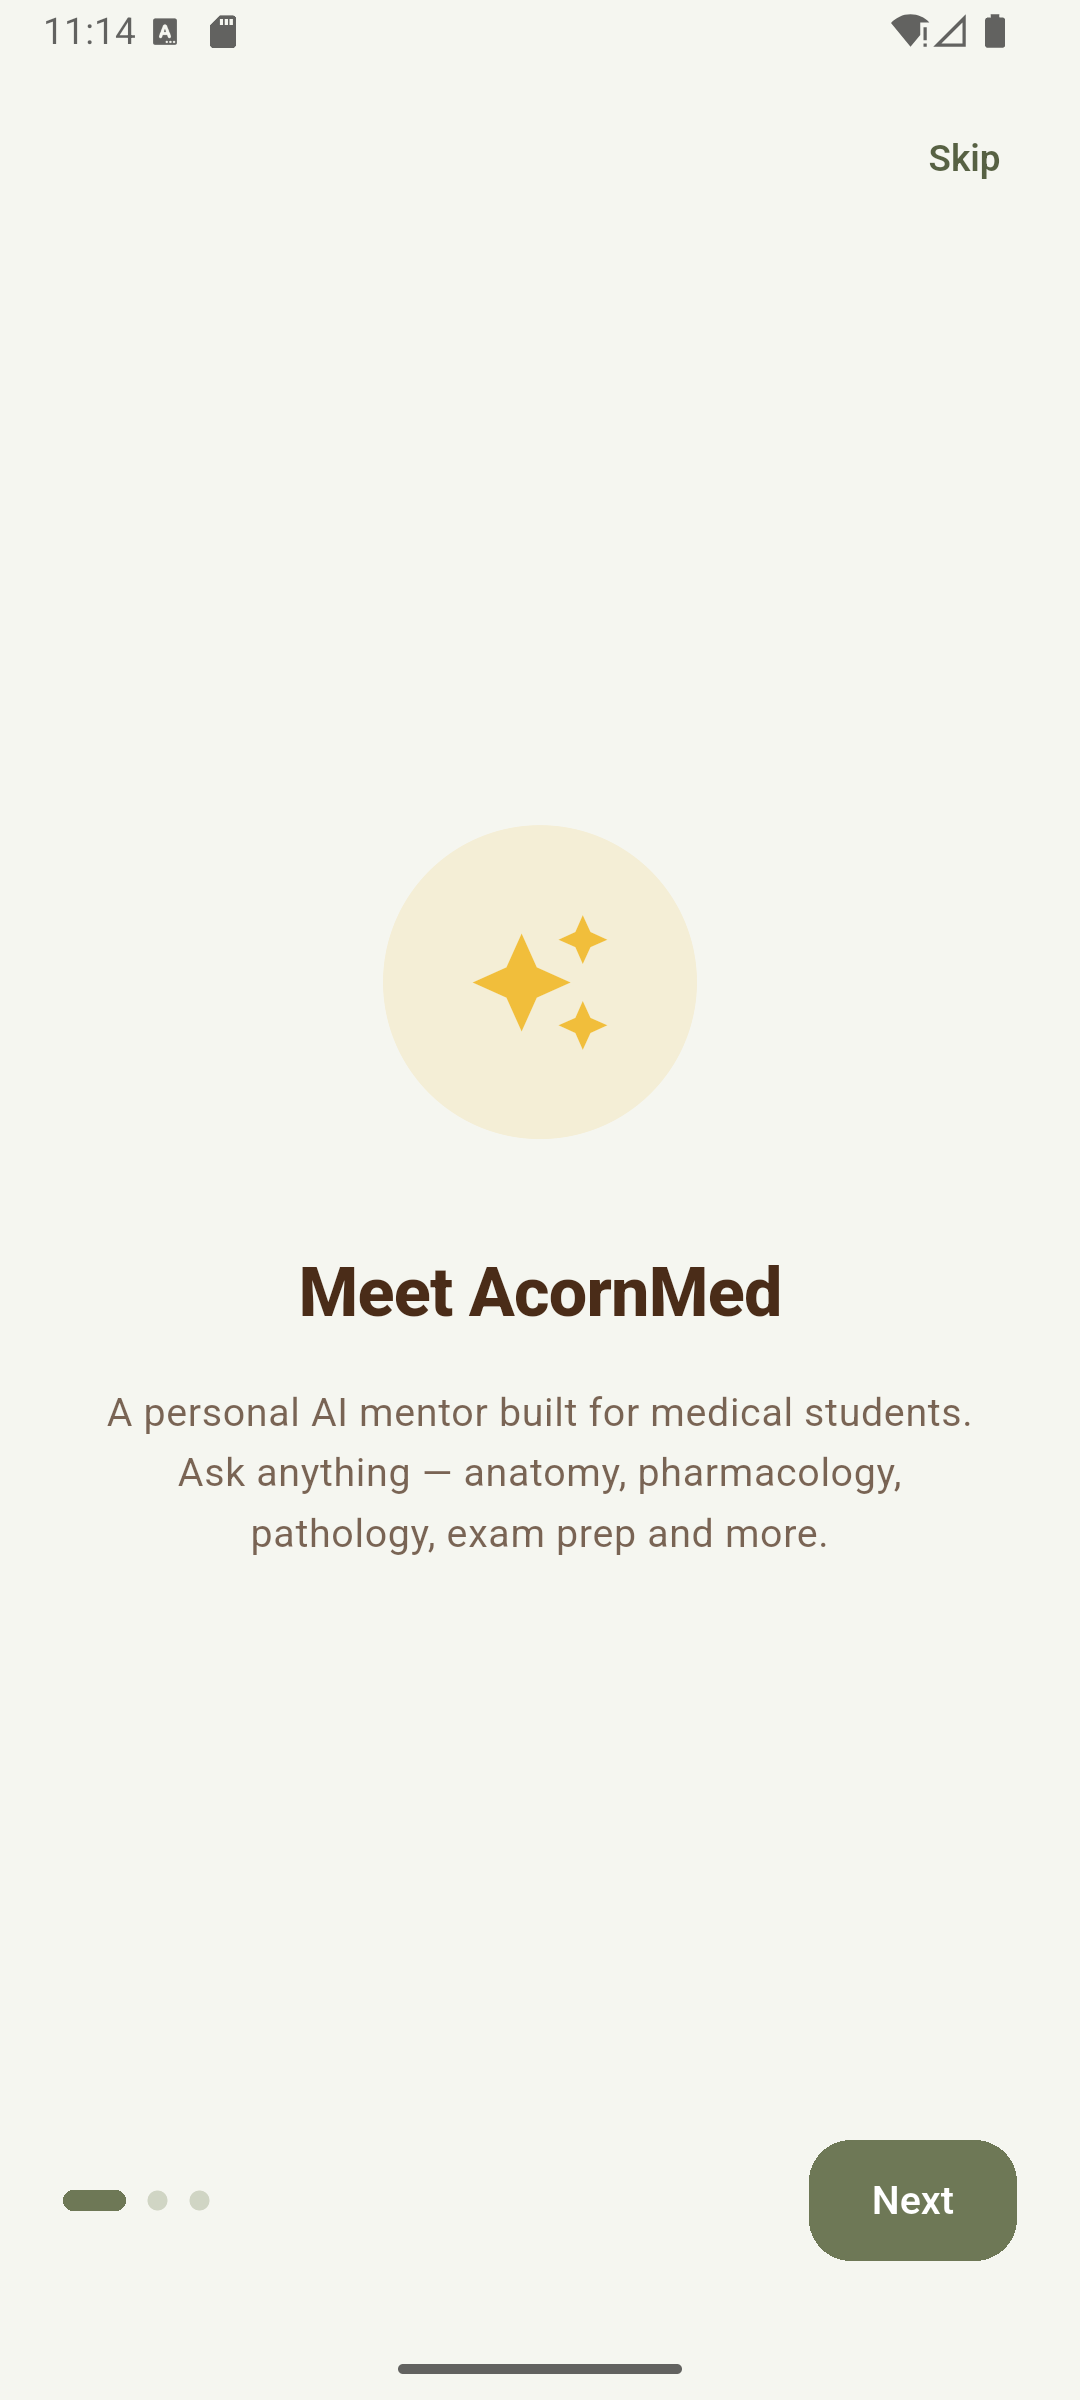
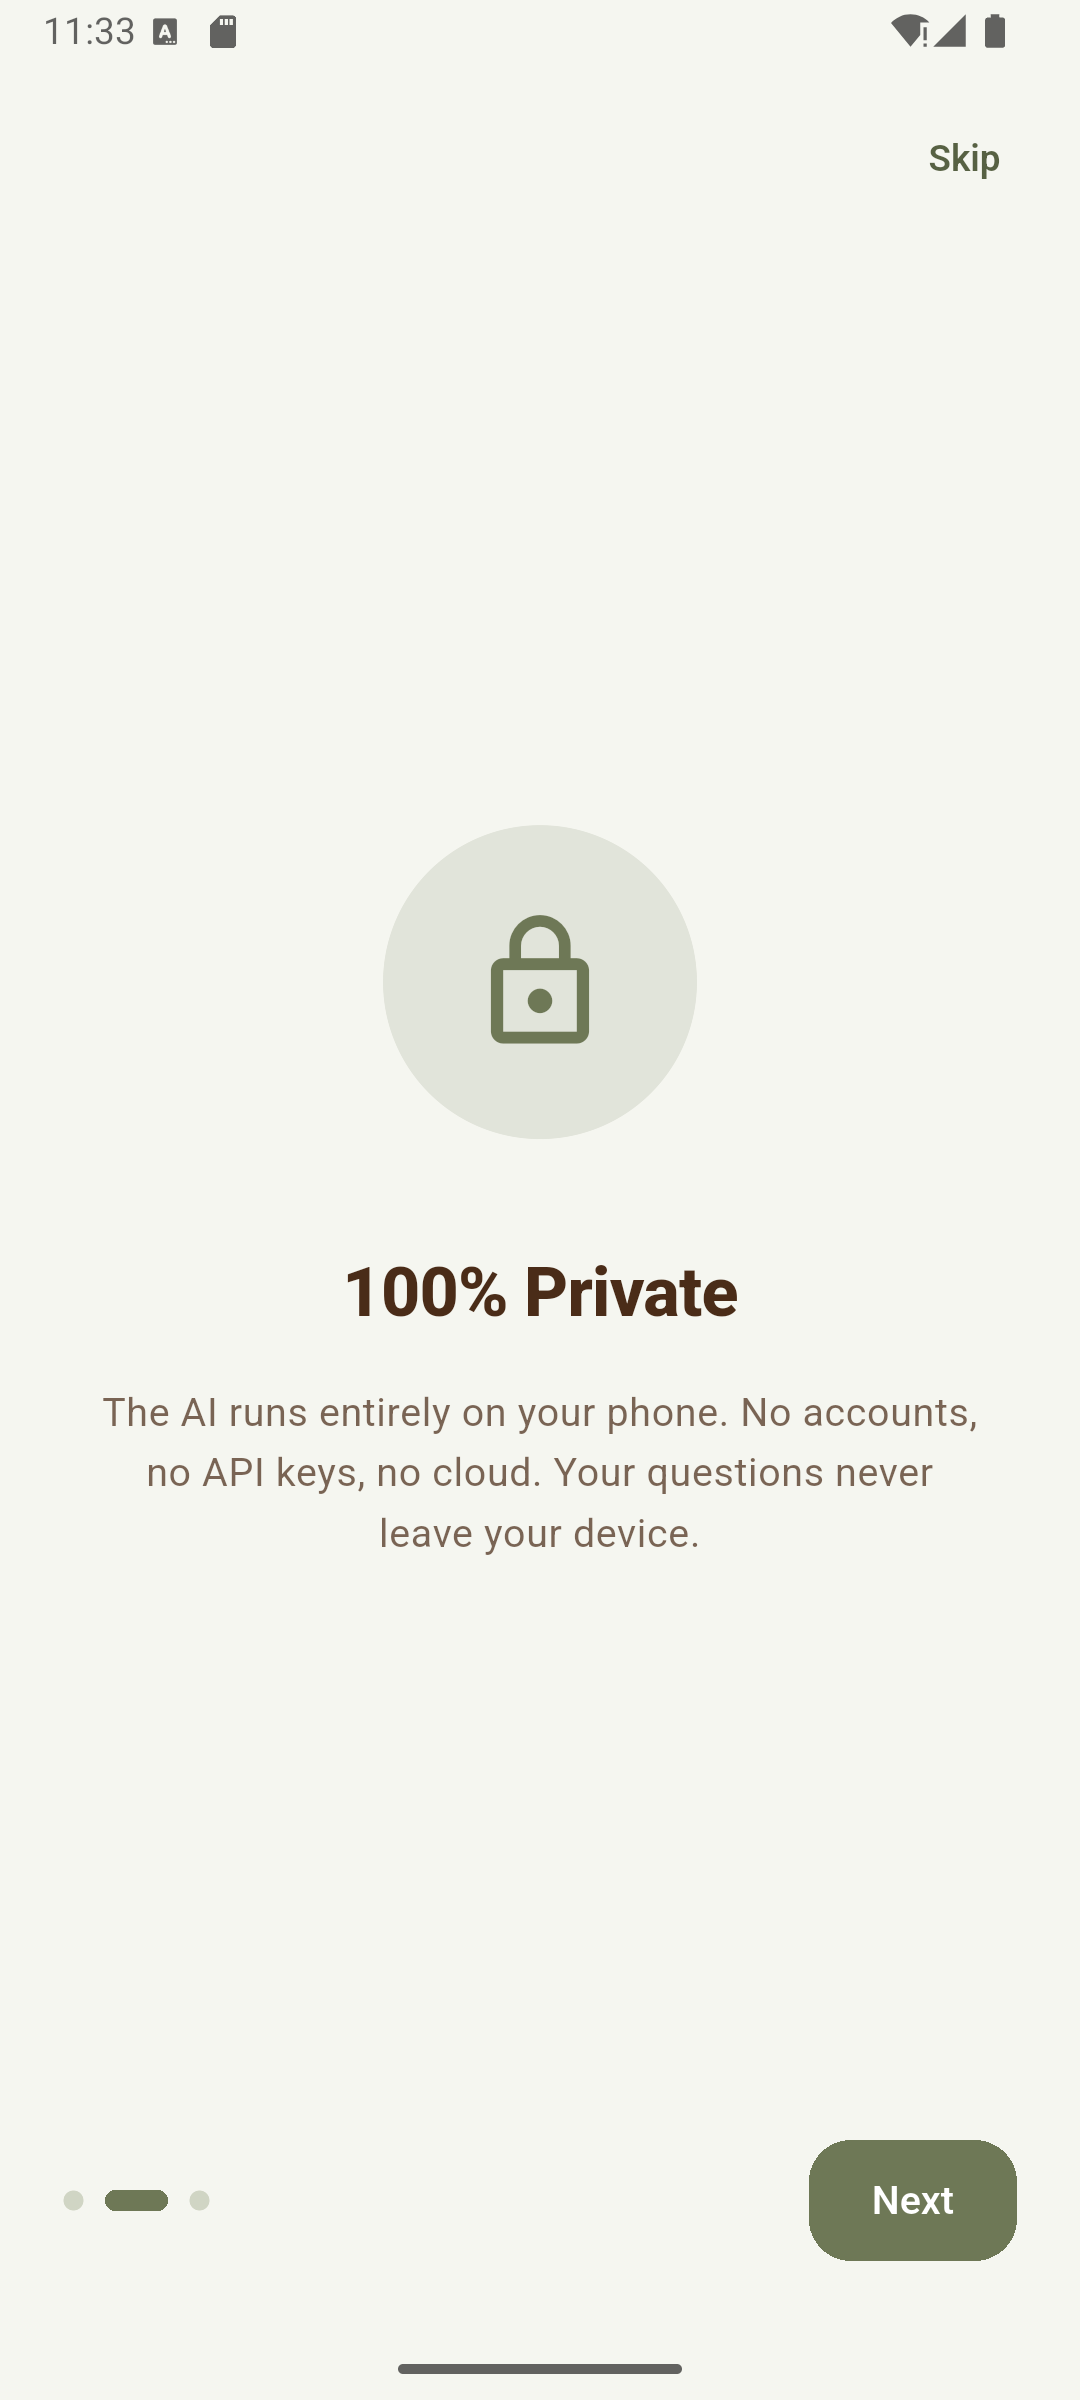
docs: recapture verified screenshots via accessibility tree, add download section, remove model-setup/settings

diff --git a/README.md b/README.md
@@ -39,6 +39,17 @@
 | 🔍 Outdated knowledge | **Optional live web search** (PubMed, Wikipedia, Web) |
 | 📸 Image-only materials | **On-device OCR** (ML Kit, no cloud) |
 
+<p align="center">
+  <a href="https://github.com/SparshMishra09/AcornMed/releases/latest">
+    <img alt="Download AcornMed" src="https://img.shields.io/badge/📥_Download_AcornMed_v1.2.0-blue?style=for-the-badge&logo=android">
+  </a>
+</p>
+
+<p align="center">
+  <strong>Recommended:</strong> <a href="https://github.com/SparshMishra09/AcornMed/releases/download/v1.2.0/AcornMed-v1.2.0-arm64-v8a.apk">arm64-v8a (21.8 MB)</a> — for modern phones<br>
+  <strong>All ABIs:</strong> <a href="https://github.com/SparshMishra09/AcornMed/releases/download/v1.2.0/AcornMed-v1.2.0-universal.apk">Universal (45.8 MB)</a> — if unsure or older/32-bit device
+</p>
+
 ---
 
 ## ✨ Features
@@ -99,13 +110,13 @@ Downloading a model in-app is now production-safe:
 
 ## 📱 Screenshots
 
-| Onboarding | Home (set up model) | Model Setup | Documents |
-|------------|--------------------|-------------|-----------|
-| ![Onboarding 1](docs/screenshots/onboarding-1.png) | ![Home](docs/screenshots/home-no-model.png) | ![Model Setup](docs/screenshots/model-setup.png) | ![Documents](docs/screenshots/documents.png) |
+| Onboarding | Home | Documents |
+|------------|------|-----------|
+| ![Onboarding](docs/screenshots/onboarding-1.png) | ![Home](docs/screenshots/home-no-model.png) | ![Documents](docs/screenshots/documents.png) |
 
-| Navigation Drawer | Settings (Faster mode) | Onboarding 2 | Onboarding 3 |
-|-------------------|------------------------|--------------|--------------|
-| ![Drawer](docs/screenshots/drawer.png) | ![Settings](docs/screenshots/settings.png) | ![Onboarding 2](docs/screenshots/onboarding-2.png) | ![Onboarding 3](docs/screenshots/onboarding-3.png) |
+| Onboarding (Privacy) | Onboarding (Knowledge) | Navigation Drawer |
+|----------------------|------------------------|-------------------|
+| ![Onboarding 2](docs/screenshots/onboarding-2.png) | ![Onboarding 3](docs/screenshots/onboarding-3.png) | ![Drawer](docs/screenshots/drawer.png) |
 
 ---
 
@@ -177,13 +188,10 @@ User Query
 - **Java 17** (for Gradle)
 - **Device/emulator** with Android 8.0+ (API 26)
 
-### Install (recommended) — get the release APK
-1. Go to **[Releases](https://github.com/SparshMishra09/AcornMed/releases)**.
-2. Download the APK that matches your device:
-   - **`AcornMed-v1.2.0-arm64-v8a.apk`** — recommended for virtually all modern phones (ARM64)
-   - **`AcornMed-v1.2.0-universal.apk`** — includes all ABIs; use if unsure or on older/32-bit devices
-3. Transfer to your phone and open it (allow install from unknown sources if prompted).
-4. On first launch, follow onboarding, then **Set up model** (download or import a GGUF).
+### Install
+Download the APK from the [**Download**](https://github.com/SparshMishra09/AcornMed/releases) section above (or from [Releases](https://github.com/SparshMishra09/AcornMed/releases)):
+1. Transfer to your phone and open it (allow install from unknown sources if prompted).
+2. On first launch, follow onboarding, then **Set up model** (download or import a GGUF).
 
 ### Build from source
 ```bash
